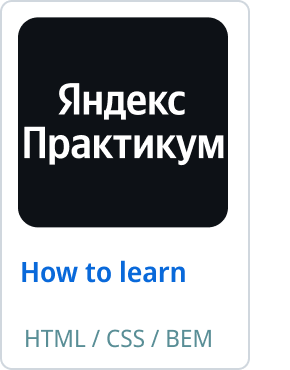
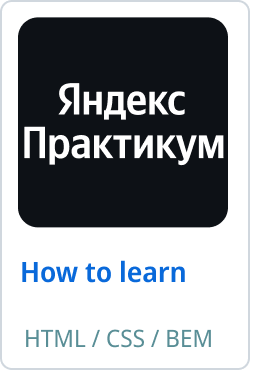
fix width

diff --git a/README.md b/README.md
@@ -34,13 +34,13 @@ Hi, my name is Stepanov Andrei and I am a beginner front-end developer. I have a
 ## Projects
 <div id="projects">
   <a href="https://github.com/Bababum95/how-to-learn">
-    <img width="145" src="./images/how-to-learn.png">
+    <img width="140" src="./images/how-to-learn.png">
   </a>
   <a href="https://github.com/Bababum95/russian-travel">
-    <img width="145" src="./images/russian-travel.png">
+    <img width="140" src="./images/russian-travel.png">
   </a>
   <a href="https://github.com/Bababum95/mesto">
-    <img width="145" src="./images/mesto.png">
+    <img width="140" src="./images/mesto.png">
   </a>
   <a href="https://github.com/Bababum95/react-mesto-auth">
     <img width="125" src="./images/mesto-react.png">
